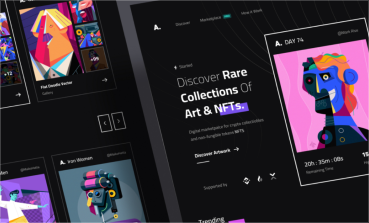
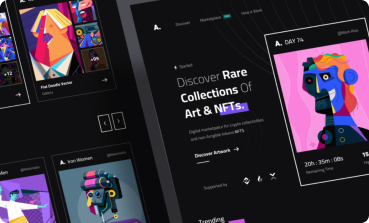
50% errors and issues resolved after CHECK

diff --git a/index.html b/index.html
@@ -23,11 +23,11 @@
                 <a href="#" class="col-3 z-2"><img src="./assets/images/karmic-labs-icon.png"
                         alt="karmic-labs-icon"></a>
                 <label class="d-none" id="label"><span></span></label>
-                <div class="row col-5 col-max-lg-12 align-items-center menu">
-                    <a href="#home" class="text-white col-3 font-sunflower font-size-16 font-weight-500">Home</a>
-                    <a href="#services" class="text-white col-3 font-sunflower font-size-16 font-weight-500">Services</a>
-                    <a href="#projects" class=" text-white col-3 font-sunflower font-size-16 font-weight-500">Project</a>
-                    <a href="#about" class="text-white col-3 font-sunflower font-size-16 font-weight-500">About</a>
+                <div class="row col-4 col-max-lg-12 align-items-center menu">
+                    <a href="#home" class="text-center text-white col-3 font-sunflower font-size-16 font-weight-500">Home</a>
+                    <a href="#services" class="text-center text-white col-3 font-sunflower font-size-16 font-weight-500">Services</a>
+                    <a href="#projects" class="text-center text-white col-3 font-sunflower font-size-16 font-weight-500">Project</a>
+                    <a href="#about" class="text-center text-white col-3 font-sunflower font-size-16 font-weight-500">About</a>
                     <button class="nav-button font-sunflower font-size-16 font-weight-500 d-none w-25" id="hidden-button">Connect Wallet</button>
                 </div>
                 <div class="button-wrapper col-3 col-max-lg-10">
@@ -41,7 +41,7 @@
         <div class="container position-relative z-2">
             <div class="row">
                 <div class="col-6 col-max-lg-12">
-                    <h2 class="text-white font-weight-300 font-size-64 font-size-max-xl-48 font-size-max-sm-40"
+                    <h2 class="text-white font-sunflower font-weight-300 font-size-64 font-size-max-xl-48 font-size-max-sm-40"
                         style="text-transform: uppercase;">We are believers decentralization and <span
                             class="position-relative">Web3.<svg class="svg-web3-top" xmlns="http://www.w3.org/2000/svg"
                                 width="172" height="12" viewBox="0 0 172 12" fill="none">
@@ -50,14 +50,14 @@
                                 height="15" viewBox="0 0 185 15" fill="none">
                                 <path d="M184 0.795875L1.00018 13.7959" stroke="white" />
                             </svg></span></h2>
-                    <p class="text-white font-grotesk font-weight-400 font-size-16">Vulputate tristique habitant neque,
+                    <p class="text-white font-grotesk font-weight-400 font-size-16" style="margin-top: 13px; margin-bottom: 40px;">Vulputate tristique habitant neque,
                         accumsan.
                         Vitae ultrices nulla erat nibh
                         aliquam, quis tempus volutpat arcu. Leo
                         convallis luctus dis malesuada turpis non consequat ac.</p>
                     <div class="row" style="margin-top: 24px;">
                         <button class="col-4 hero-button-1 font-sunflower font-weight-300 font-size-16"
-                            style="margin-right: 16px;">Get Started <span><svg width="18" height="12"
+                            style="margin-right: 16px; margin-left: 16px;">Get Started <span><svg width="18" height="12"
                                     viewBox="0 0 18 12" fill="none" xmlns="http://www.w3.org/2000/svg">
                                     <path
                                         d="M17.495 6.49497C17.7683 6.22161 17.7683 5.77839 17.495 5.50503L13.0402 1.05025C12.7668 0.776886 12.3236 0.776886 12.0503 1.05025C11.7769 1.32362 11.7769 1.76684 12.0503 2.0402L16.01 6L12.0503 9.9598C11.7769 10.2332 11.7769 10.6764 12.0503 10.9497C12.3236 11.2231 12.7668 11.2231 13.0402 10.9497L17.495 6.49497ZM0 6.7H17V5.3H0V6.7Z"
@@ -67,7 +67,7 @@
                         <button class="col-4 hero-button-2 font-sunflower font-weight-300 font-size-16">Read More</button>
                     </div>
                 </div>
-                <div class="col-6 col-max-lg-12 mt-max-lg-44" style="padding-left: 20%;">
+                <div class="col-6 col-max-lg-12 mt-max-lg-44" style="padding-left: 17%;">
                     <img src="./assets/images/Hero-section-cards.png" alt="" class="hero-image">
                 </div>
                     <a href="#upcoming" class="row justify-content-center"><svg class="text-center down-arrow" width="16" height="52" viewBox="0 0 16 52" fill="none"
@@ -92,7 +92,7 @@
                 <div class="col-3 col-max-lg-4 col-max-md-6 col-max-sm-12">
                     <div class="section-1-card">
                         <img src="./assets/images/candle-queen-1.png" alt="" class="w-100">
-                        <div class="row justify-content-between">
+                        <div class="row justify-content-between" style="margin-top: 15px;">
                             <span style="width: 50%;"
                                 class="pe-0 text-white font-sunflower font-weight-500 font-size-20">Candle Queen</span>
                             <p style="width: 50%;"
@@ -105,7 +105,7 @@
                 <div class="col-3 col-max-lg-4 col-max-md-6 col-max-sm-12">
                     <div class="section-1-card">
                         <img src="./assets/images/candle-queen-2.png" alt="" class="w-100">
-                        <div class="row justify-content-between">
+                        <div class="row justify-content-between" style="margin-top: 15px;">
                             <span style="width: 50%;"
                                 class="pe-0 text-white font-sunflower font-weight-500 font-size-20">Candle Queen</span>
                             <p style="width: 50%;"
@@ -118,7 +118,7 @@
                 <div class="col-3 col-max-lg-4 col-max-md-6 col-max-sm-12">
                     <div class="section-1-card">
                         <img src="./assets/images/candle-queen-3.png" alt="" class="w-100">
-                        <div class="row justify-content-between">
+                        <div class="row justify-content-between" style="margin-top: 15px;">
                             <span style="width: 50%;"
                                 class="pe-0 text-white font-sunflower font-weight-500 font-size-20">Candle Queen</span>
                             <p style="width: 50%;"
@@ -131,7 +131,7 @@
                 <div class="col-3 col-max-lg-4 col-max-md-6 col-max-sm-12">
                     <div class="section-1-card">
                         <img src="./assets/images/candle-queen-4.png" alt="" class="w-100">
-                        <div class="row justify-content-between">
+                        <div class="row justify-content-between" style="margin-top: 15px;">
                             <span style="width: 50%;"
                                 class="pe-0 text-white font-sunflower font-weight-500 font-size-20">Candle Queen</span>
                             <p style="width: 50%;"
@@ -320,7 +320,7 @@
                     tellus. Molestie adipiscing diam nibh
                     lectus. Magna id nisl quis vestibulum rhoncus.</h5>
             </div>
-            <div class="row justify-content-center " id="section-2-cards" style="margin-top: 54px;">
+            <div class="row justify-content-center " id="section-2-cards" style="margin-top: 34px;">
                 <div class="col-3 col-max-lg-4 col-max-md-6 col-max-sm-12 position-relative z-2"
                     style="margin-top: 24px;">
                     <img src="./assets/images/grid-1.png" alt="">
@@ -387,7 +387,7 @@
                 </div>
             </div>
             <div class="row justify-content-center z-2">
-                <button class="section-button-2" style="margin-top: 56px;">View All</button>
+                <button class="font-sunflower font-weight-500 font-size-16 section-button-2" style="margin-top: 56px;">View All</button>
             </div>
         </div>
     </section>
@@ -413,39 +413,39 @@
             <!-- SLIDER -->
             <div class="slider" style="margin-top: 48px;">
                 <div class="slide-wrapper">
-                    <img src="./assets/images/slider-1.png" alt="" class="w-100">
+                    <img src="./assets/images/slider-1.png" alt="" class="w-100 slider-slide">
 
                 </div>
                 <div class="slide-wrapper">
-                    <img src="./assets/images/slider-2.png" alt="" class="w-100">
+                    <img src="./assets/images/slider-2.png" alt="" class="w-100 slider-slide">
 
                 </div>
                 <div class="slide-wrapper">
-                    <img src="./assets/images/slider-3.png" alt="" class="w-100">
+                    <img src="./assets/images/slider-3.png" alt="" class="w-100 slider-slide">
 
                 </div>
                 <div class="slide-wrapper">
-                    <img src="./assets/images/slider-1.png" alt="" class="w-100">
+                    <img src="./assets/images/slider-1.png" alt="" class="w-100 slider-slide">
 
                 </div>
                 <div class="slide-wrapper">
-                    <img src="./assets/images/slider-2.png" alt="" class="w-100">
+                    <img src="./assets/images/slider-2.png" alt="" class="w-100 slider-slide">
 
                 </div>
                 <div class="slide-wrapper">
 
-                    <img src="./assets/images/slider-3.png" alt="" class="w-100">
+                    <img src="./assets/images/slider-3.png" alt="" class="w-100 slider-slide">
                 </div>
                 <div class="slide-wrapper">
-                    <img src="./assets/images/slider-1.png" alt="" class="w-100">
+                    <img src="./assets/images/slider-1.png" alt="" class="w-100 slider-slide">
 
                 </div>
                 <div class="slide-wrapper">
-                    <img src="./assets/images/slider-2.png" alt="" class="w-100">
+                    <img src="./assets/images/slider-2.png" alt="" class="w-100 slider-slide">
 
                 </div>
                 <div class="slide-wrapper">
-                    <img src="./assets/images/slider-3.png" alt="" class="w-100">
+                    <img src="./assets/images/slider-3.png" alt="" class="w-100 slider-slide">
                 </div>
             </div>
             <div class="row justify-content-center mt-footer">

diff --git a/assets/css/styles.css b/assets/css/styles.css
@@ -252,14 +252,14 @@
 
 .svg-web3-top {
     position: absolute;
-    top: 0;
+    bottom: 100%;
     left: 65%;
     transform: translateX(-50%);
 }
 
 .svg-web3-bottom {
     position: absolute;
-    bottom: 0;
+    top: 100%;
     left: 50%;
     transform: translateX(-50%);
 }
@@ -282,13 +282,23 @@
     overflow: hidden;
 }
 
+.slider-slide{
+    border: 1px solid #FFFFFF33;
+    box-shadow: 0px 4px 15px 0px #FFFFFF1A;
+}
+
+.slider-slide:hover{
+    border: transparent;
+}
+
 .svg-icon:hover {
     transform: scale(1.3);
 }
 
 .hero-image {
-    width: 80%;
+    width: 100%;
     height: 100%;
+    transform: translate(0, 12%);
 }
 
 .footer-icon {
@@ -398,6 +408,10 @@
     .mt-footer {
         margin-top: 140px !important;
     }
+
+    .hero-image{
+        transform: translate(0, 0);
+    }
 }
 
 @media (max-width: 768px) {
@@ -437,7 +451,7 @@
     }
 }
 
-@media (min-width: 1400px) {
+@media (min-width: 1500px) {
 
     .container,
     .container-lg,
